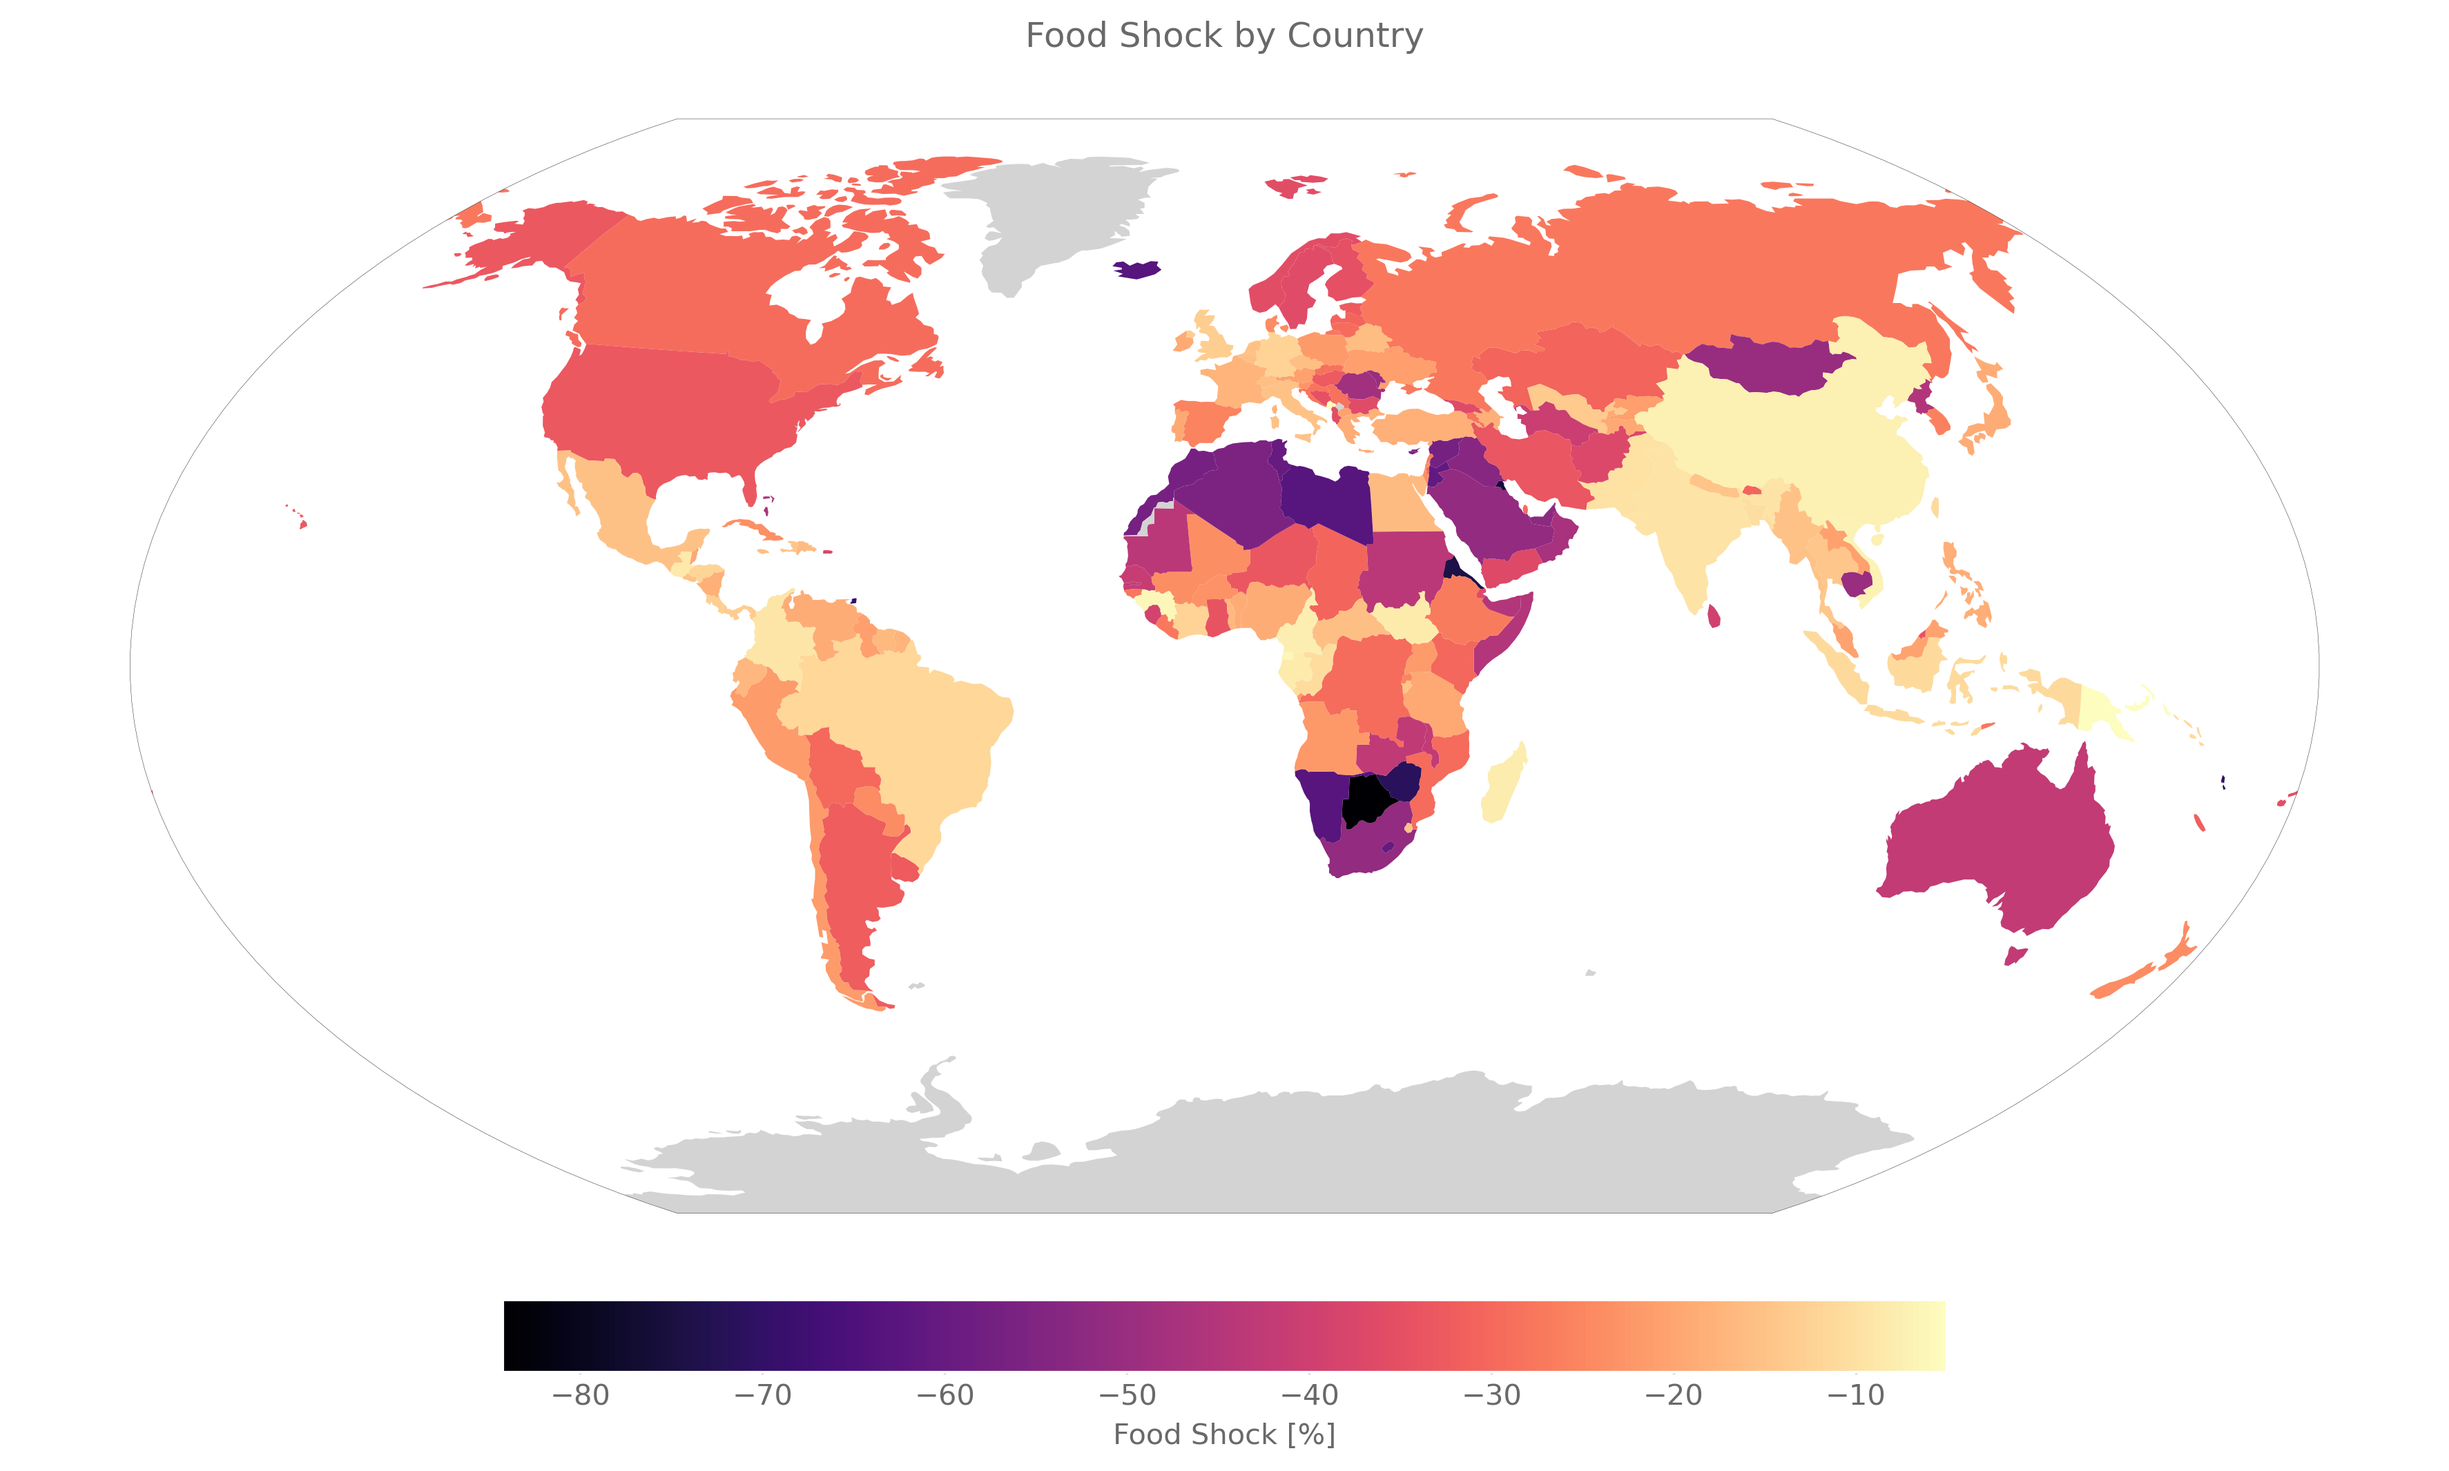
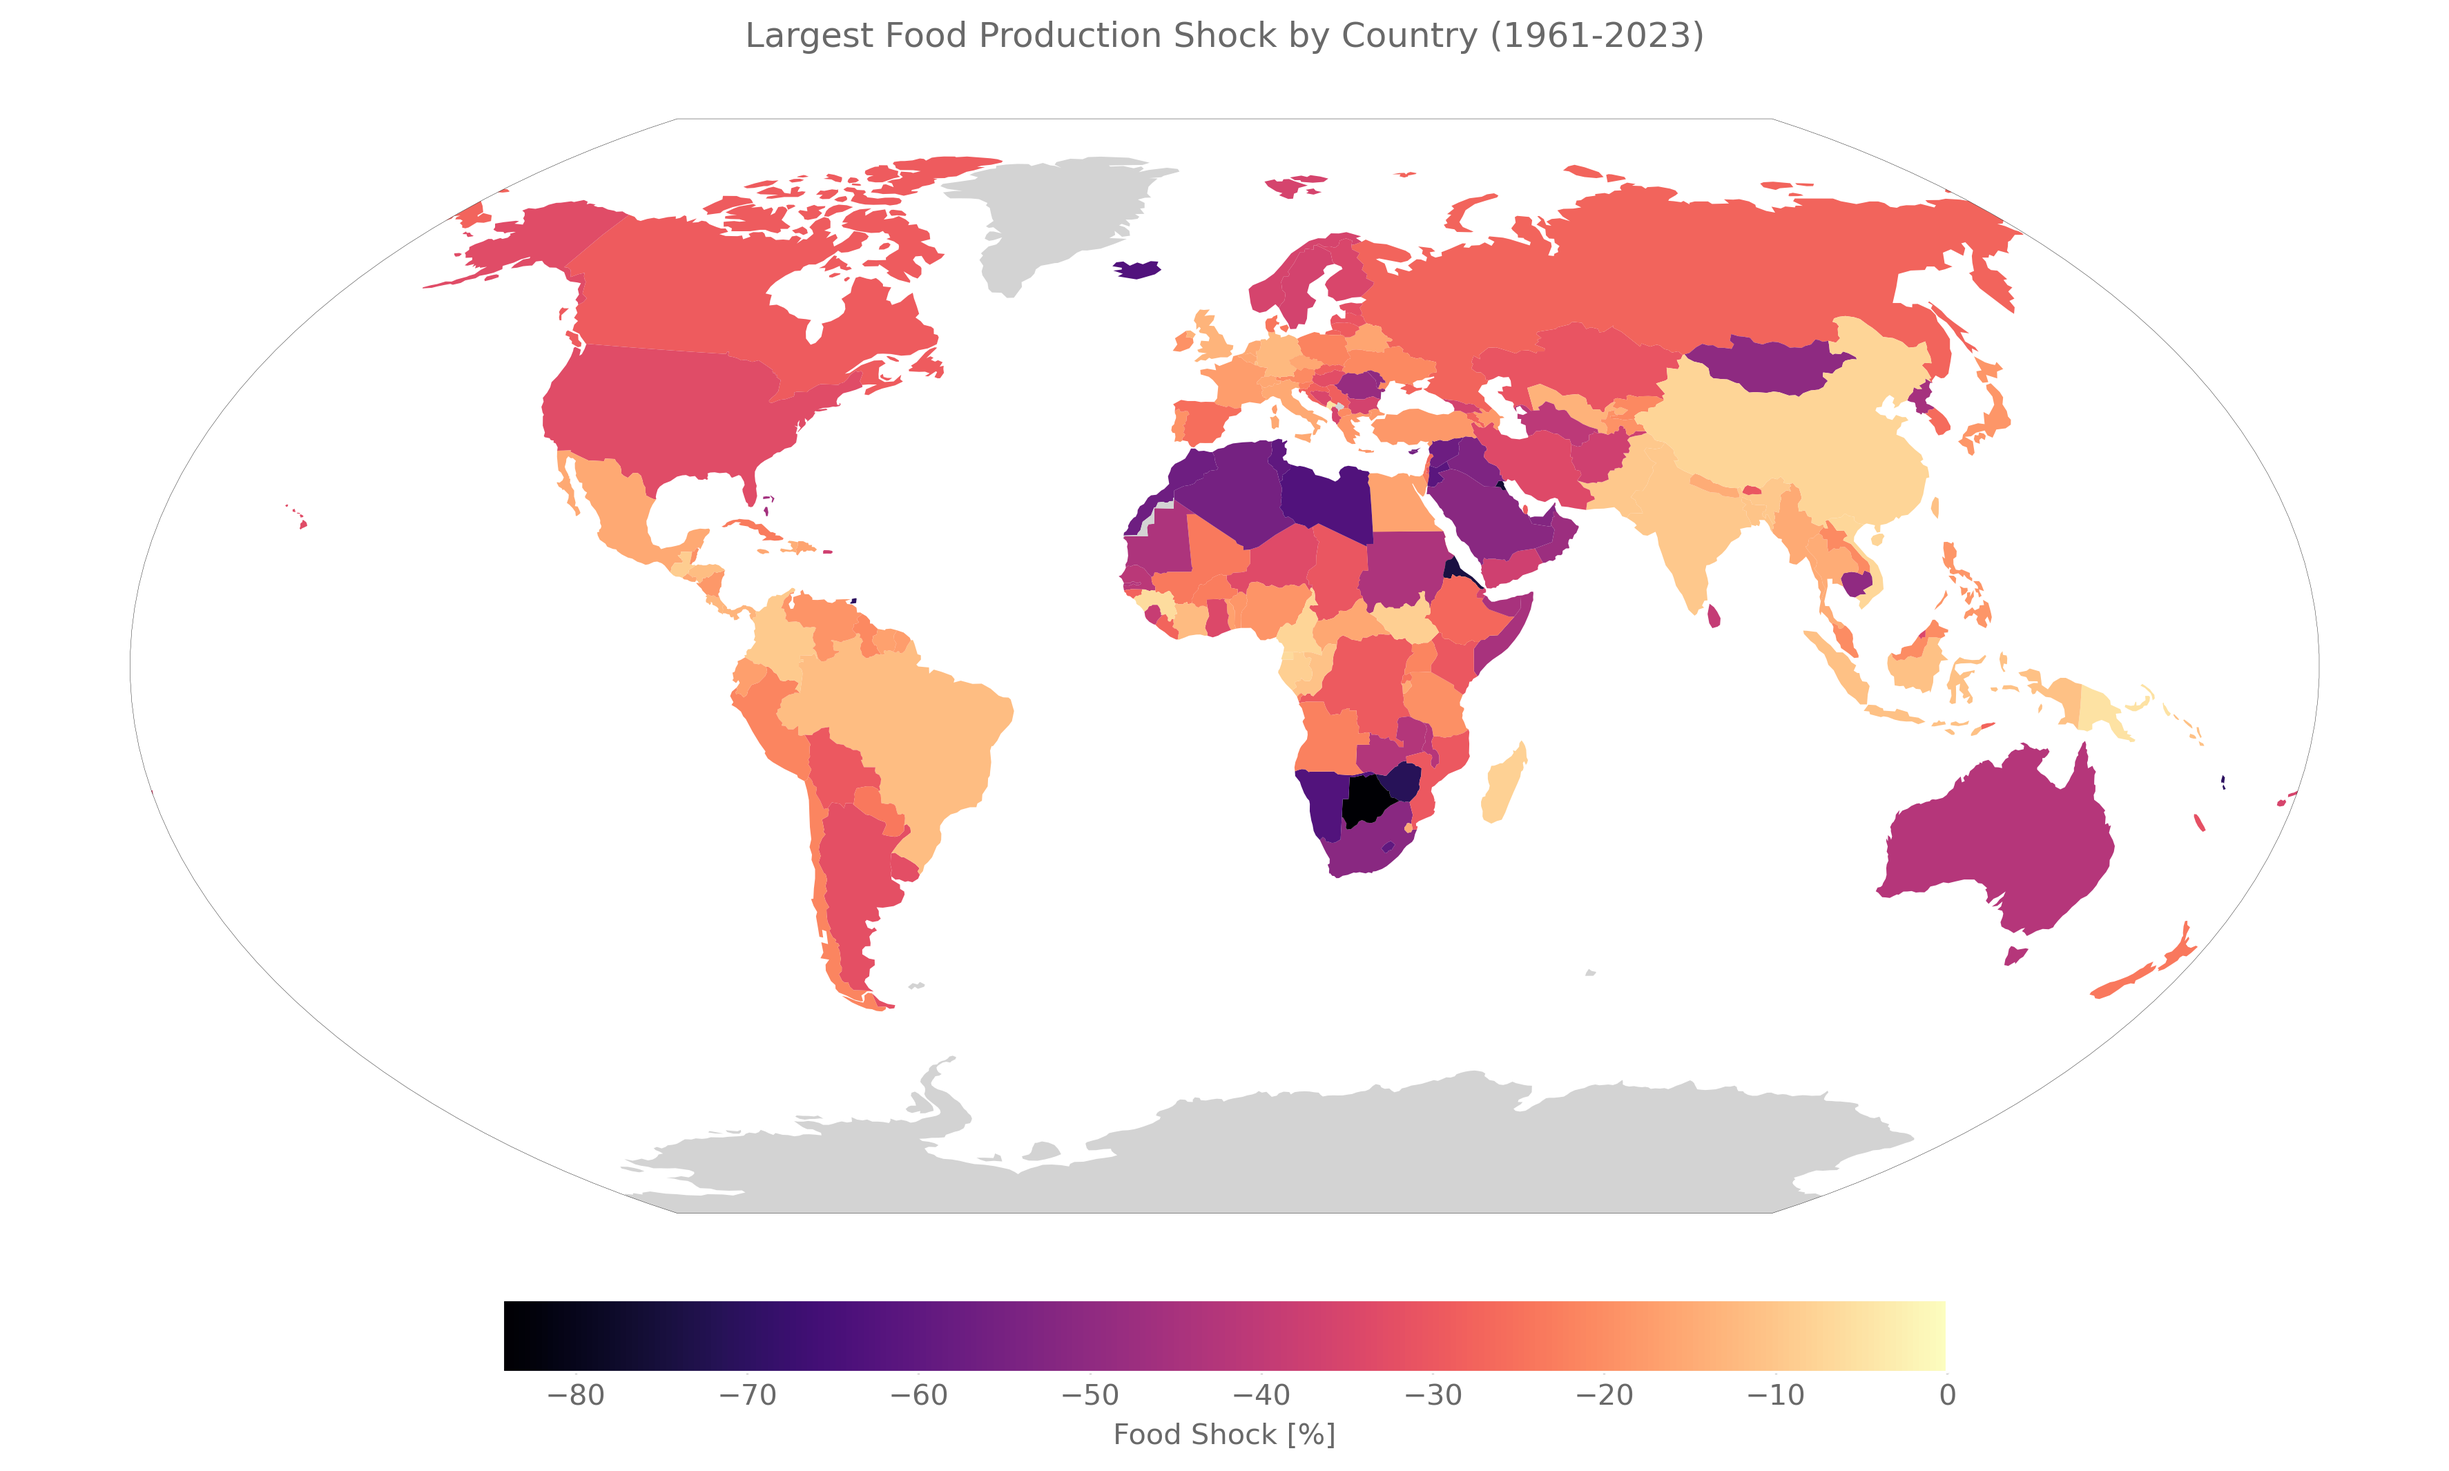
Finished first version of food shock count map

diff --git a/src/plot_maps.py b/src/plot_maps.py
@@ -10,14 +10,7 @@ import geopandas as gpd
 import matplotlib.pyplot as plt
 import country_converter as coco
 from pathlib import Path
-import warnings
-import os
 
-# Suppress warnings for cleaner output
-warnings.filterwarnings('ignore')
-
-# Set PROJ_LIB environment variable to fix PROJ issues
-os.environ['PROJ_LIB'] = '/home/florian/local/anaconda3/envs/food_shocks/share/proj'
 
 # Set up ALLFED plotting style
 plt.style.use("https://raw.githubusercontent.com/allfed/ALLFED-matplotlib-style-sheet/main/ALLFED.mplstyle")
@@ -53,7 +46,7 @@ def convert_country_names(df):
     return df
 
 
-def merge_data_with_map(df, map_df):
+def merge_data_with_map_shock(df, map_df):
     """
     Merge the DataFrame with the map DataFrame.
 
@@ -77,7 +70,31 @@ def merge_data_with_map(df, map_df):
     return merged
 
 
-def plot_map(merged, title, filename):
+def merge_data_with_map_count(df, map_df):
+    """
+    Merge the DataFrame with the map DataFrame to count the number of years with food shocks.
+
+    Args:
+        df (pd.DataFrame): DataFrame with countries in name_short format.
+        map_df (gpd.GeoDataFrame): GeoDataFrame with country geometries.
+
+    Returns:
+        gpd.GeoDataFrame: Merged GeoDataFrame.
+    """
+    # Create a new column name_short in the map DataFrame
+    map_df['name_short'] = coco.convert(map_df['ADMIN'], to='name_short', not_found=None)
+
+    # Count the number of years with food shocks for each country
+    df = pd.DataFrame(df[df < -5].count(axis=1))
+
+    # Merge the data with the map
+    merged = map_df.merge(df, left_on='name_short', right_index=True, how='left')
+    # Rename the column to 'food_shock'
+    merged.rename(columns={0: 'food_shock_count'}, inplace=True)
+    return merged
+
+
+def plot_map_yield_shock_relative(merged, title, filename):
     """
     Plot the map with the merged data.
     Args:
@@ -88,16 +105,60 @@ def plot_map(merged, title, filename):
     fig, ax = plt.subplots(1, 1, figsize=(15, 10))
     # Set the map to the Winkel Tripel projection
     merged = merged.to_crs('+proj=wintri')
-    merged.plot(column='food_shock', ax=ax, legend=True,
-                legend_kwds={'label': "Food Shock [%]", 
-                            'orientation': "horizontal",
-                            'pad': 0.02,        # Distance from map
-                            'shrink': 0.6},      # Overall size
-                cmap='magma', missing_kwds={"color": "lightgrey"})
+    vmin = merged['food_shock'].min()
+    vmax = 0
+    merged.plot(
+        column='food_shock',
+        ax=ax,
+        legend=True,
+        legend_kwds={
+            'label': "Food Shock [%]",
+            'orientation': "horizontal",
+            'pad': 0.02,
+            'shrink': 0.6
+        },
+        cmap='magma',
+        vmin=vmin,
+        vmax=vmax,
+        missing_kwds={"color": "lightgrey"}
+    )
     plot_winkel_tripel_map(ax)
     ax.set_title(title)
     plt.savefig(filename, bbox_inches='tight')
     plt.close()
+
+
+def plot_map_yield_shock_count(merged, title, filename):
+    """
+    Plots the map with the number of years with yield shocks.
+    Args:
+        merged (gpd.GeoDataFrame): Merged GeoDataFrame.
+        title (str): Title for the plot.
+        filename (str): Filename to save the plot.
+    """
+    fig, ax = plt.subplots(1, 1, figsize=(15, 10))
+    # Set the map to the Winkel Tripel projection
+    merged = merged.to_crs('+proj=wintri')
+
+    merged.plot(
+        column='food_shock_count',
+        ax=ax,
+        legend=True,
+        legend_kwds={
+            'label': "Number of Years with Food Shock",
+            'orientation': "horizontal",
+            'pad': 0.02,
+            'shrink': 0.6
+        },
+        cmap='magma_r',
+        vmax=merged['food_shock_count'].max(),
+        missing_kwds={"color": "lightgrey"}
+    )
+    plot_winkel_tripel_map(ax)
+    ax.set_title(title)
+    plt.savefig(filename, bbox_inches='tight')
+    plt.close()
+
 
 
 def main():
@@ -110,20 +171,20 @@ def main():
     df = pd.read_csv(data_path, index_col=0)
     # Convert country names to name_short format
     df = convert_country_names(df)
-    print(df.head())
 
     # Force use of Fiona instead of pyogrio
     shapefile_path = Path("data") / "ne_110m_admin_0_countries.shp"
     admin_map = gpd.read_file(shapefile_path, engine='fiona')
     print(f"Successfully loaded {len(admin_map)} countries using Fiona")
-    print(admin_map.head())
 
     # Merge the data with the map
-    merged = merge_data_with_map(df, admin_map)
-    print(merged.head())
+    merged_shock = merge_data_with_map_shock(df, admin_map)
+    merged_count = merge_data_with_map_count(df, admin_map)
+    print(f"Successfully merged data with map for {spatial_extent}")
 
     # Plot the map
-    plot_map(merged, "Food Shock by Country", "results/food_shock_by_country.png")
+    plot_map_yield_shock_relative(merged_shock, "Largest Food Production Shock by Country (1961-2023)", "results/food_shock_by_country.png")
+    plot_map_yield_shock_count(merged_count, "Percentage of Years with Food Production Shock by Country (1961-2023)", "results/food_shock_count_by_country.png")
     
 
 if __name__ == "__main__":

diff --git a/src/calculate_food_shocks.py b/src/calculate_food_shocks.py
@@ -16,9 +16,6 @@ def calculate_changes_savgol(data, window_length=15, polyorder=3):
     Returns:
         pd.DataFrame: DataFrame with percentage changes for each country and year
     """
-    # Validate parameters
-    if window_length % 2 == 0:
-        raise ValueError("window_length must be an odd integer")
     if polyorder >= window_length:
         raise ValueError("polyorder must be less than window_length")
 
@@ -59,12 +56,11 @@ def main():
         print(f"Loading data from {input_file}...")
         data = pd.read_csv(input_file, index_col=0)
 
-        # Calculate percentage changes using Savitzky-Golay filter
         print("Calculating yield changes using Savitzky-Golay filter...")
         # Set the window length and polynomial order for the Savitzky-Golay filter
         # Using 15 years, because this is similar to the approach in Anderson et al. (2023)
         # This way we can smooth out the data and get a better estimate of the changes
-        window_length = 15  # Must be odd
+        window_length = 15
         polyorder = 3  # Must be less than window_length
         # Calculate percentage changes
         pct_changes = calculate_changes_savgol(
